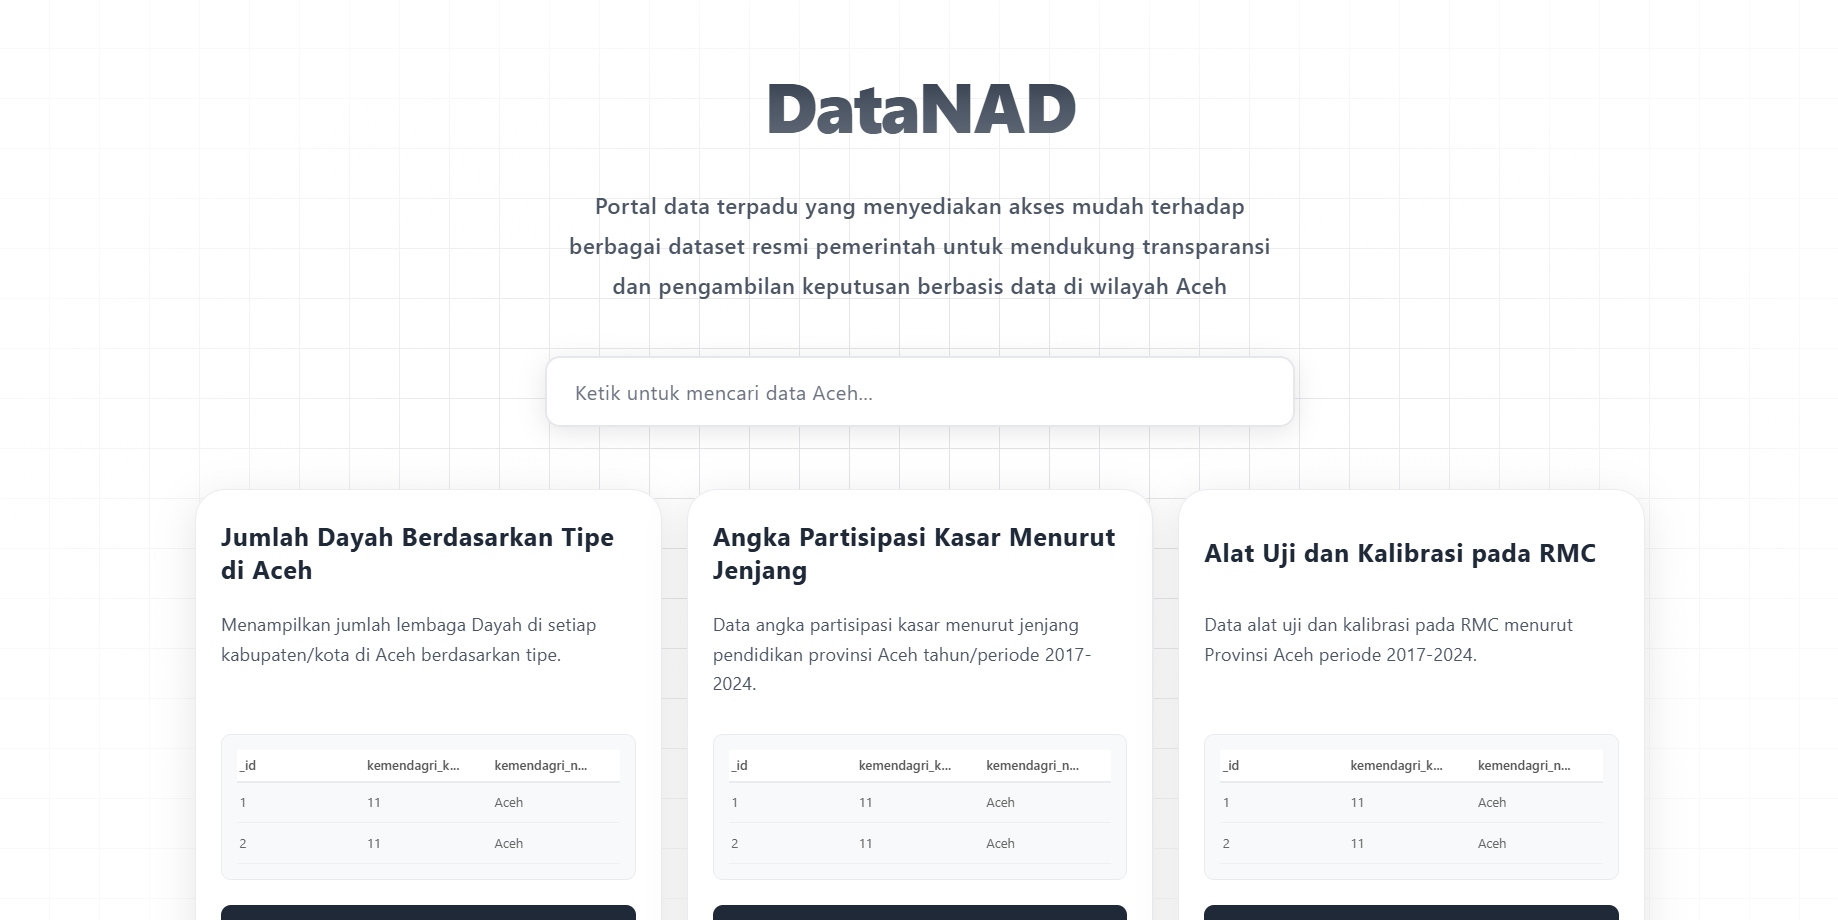
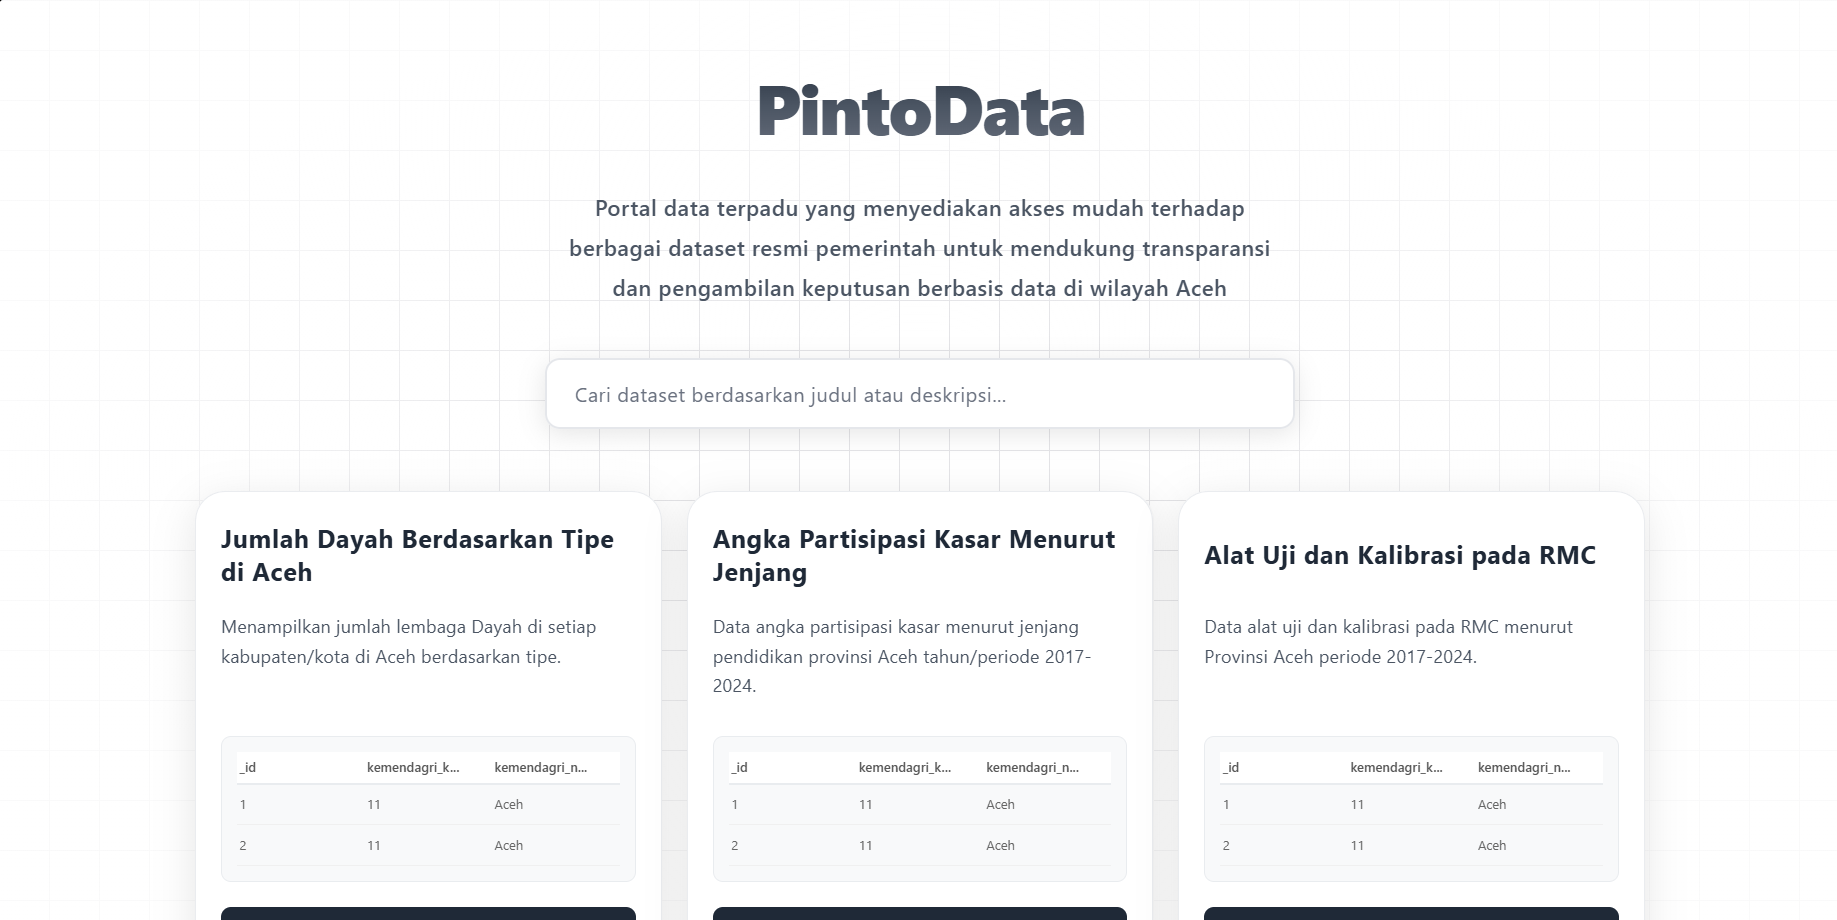
update readme

diff --git a/README.md b/README.md
@@ -1,4 +1,4 @@
-# 🌟 DataLens Aceh - Portal Visualisasi Data- [🌟 Tentang Proyek](#-tentang-proyek)
+# 🌟 PintoData - Portal Visualisasi Data- [🌟 Tentang Proyek](#-tentang-proyek)
 
 - [✨ Fitur Utama](#-fitur-utama)
 - [📸 Screenshots](#-screenshots)
@@ -48,7 +48,7 @@
 
 ## 🌟 Tentang Proyek
 
-**DataNAD (Data Nanggroe Aceh Darussalam)** adalah aplikasi web modern yang dirancang khusus untuk memvisualisasikan data statistik pemerintah Provinsi Aceh. Proyek ini dikembangkan sebagai bagian dari program **Kerja Kerja Praktik (KKP)** dengan tujuan meningkatkan transparansi data pemerintah dan memudahkan akses informasi publik.
+**PintoData (Pintu Data)** adalah aplikasi web modern yang dirancang khusus untuk memvisualisasikan data statistik pemerintah Provinsi Aceh. Proyek ini dikembangkan sebagai bagian dari program **Kerja Kerja Praktik (KKP)** dengan tujuan meningkatkan transparansi data pemerintah dan memudahkan akses informasi publik.
 
 ### 🎯 Tujuan Proyek
 
@@ -251,7 +251,7 @@ code .
 
 ## 📊 Dataset
 
-### 📈 Dataset yang Tersedia
+### 📈 Kilas Dataset
 
 | Dataset                        | ID         | Deskripsi                        | Visualisasi Terbaik      |
 | ------------------------------ | ---------- | -------------------------------- | ------------------------ |
@@ -367,6 +367,6 @@ Deskripsi singkat tentang bug
 
 ---
 
-_© 2025 DataNAD. Portal Data Aceh. All rights reserved._
+_© 2025 PintoData. Portal Data Aceh. All rights reserved._
 
 </div>
